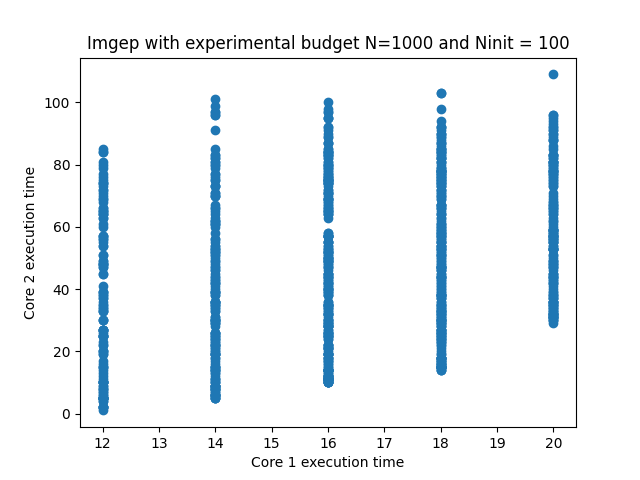
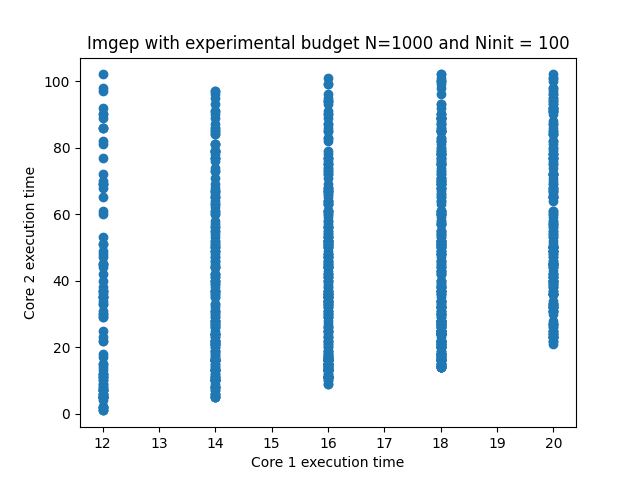
add picture

diff --git a/comparaison.py b/comparaison.py
@@ -1,0 +1,21 @@
+import pickle
+import matplotlib.pyplot as plt
+
+
+if __name__=="__main__":
+    with open("imgep_with_homemade_mutation_operator/dict/imgep.pickle","rb") as f:
+        imgep = pickle.load(f)
+    with open("random_exploration_homemade_mutation_operator/dict/randomexploration.pickle","rb") as f:
+        random_exploration = pickle.load(f)
+    N_init = 100
+    N = 1000
+    plt.figure()
+    plt.scatter(imgep["core2_exec_time"],imgep["core1_exec_time"], label="imgep")
+    plt.scatter(random_exploration["core2_exec_time"],random_exploration["core1_exec_time"], label="random exploration")
+    plt.xlabel("execution time core 1")
+    plt.ylabel("execution time core 2")
+    plt.title(f"Imgep with experimental budget N={N} and Ninit = {N_init} VS Random exploration with N={N}")
+    plt.legend()
+    plt.show()
+    plt.savefig("image\comparaison")
+

diff --git a/imgep_with_homemade_mutation_operator/main.py b/imgep_with_homemade_mutation_operator/main.py
@@ -6,6 +6,7 @@ import sys
 sys.path.append("../")
 from mcpu5 import simulate_dual_core
 import matplotlib.pyplot as plt
+import pickle
 if __name__=="__main__":
     max_size = 1000 #max_size for the history
     N = 1000 #experimental budget
@@ -27,3 +28,5 @@ if __name__=="__main__":
     plt.ylabel("Core 2 execution time")
     plt.savefig("image/history_visual.png")
     plt.show()
+    with open("dict/imgep.pickle", "wb") as f:
+        pickle.dump(H.memory_signature,f)

diff --git a/random_exploration_homemade_mutation_operator/main.py b/random_exploration_homemade_mutation_operator/main.py
@@ -9,6 +9,7 @@ import numpy as np
 import re
 from join_string import join_strings
 from mcpu5 import simulate_dual_core
+import pickle
 
 
 if __name__=="__main__":
@@ -46,3 +47,5 @@ if __name__=="__main__":
     plt.ylabel("Core 2 execution time")
     plt.savefig("image/history_visual.png")
     plt.show()
+    with open("dict/randomexploration.pickle", "wb") as f:
+        pickle.dump(H.memory_signature,f)

diff --git a/README.md b/README.md
@@ -107,4 +107,4 @@ The results are easy to interpret. The more we see columns and the longer they a
 POP-IMGEP with python function mutator             |  Random exploration
 :-------------------------:|:-------------------------:
 ![image](/imgep_with_homemade_mutation_operator/image/history_visual.png)  | ![image](/random_exploration_homemade_mutation_operator/image/history_visual.png) 
-
+![image](/imgep_with_homemade_mutation_operator/image/comparaison.png)
